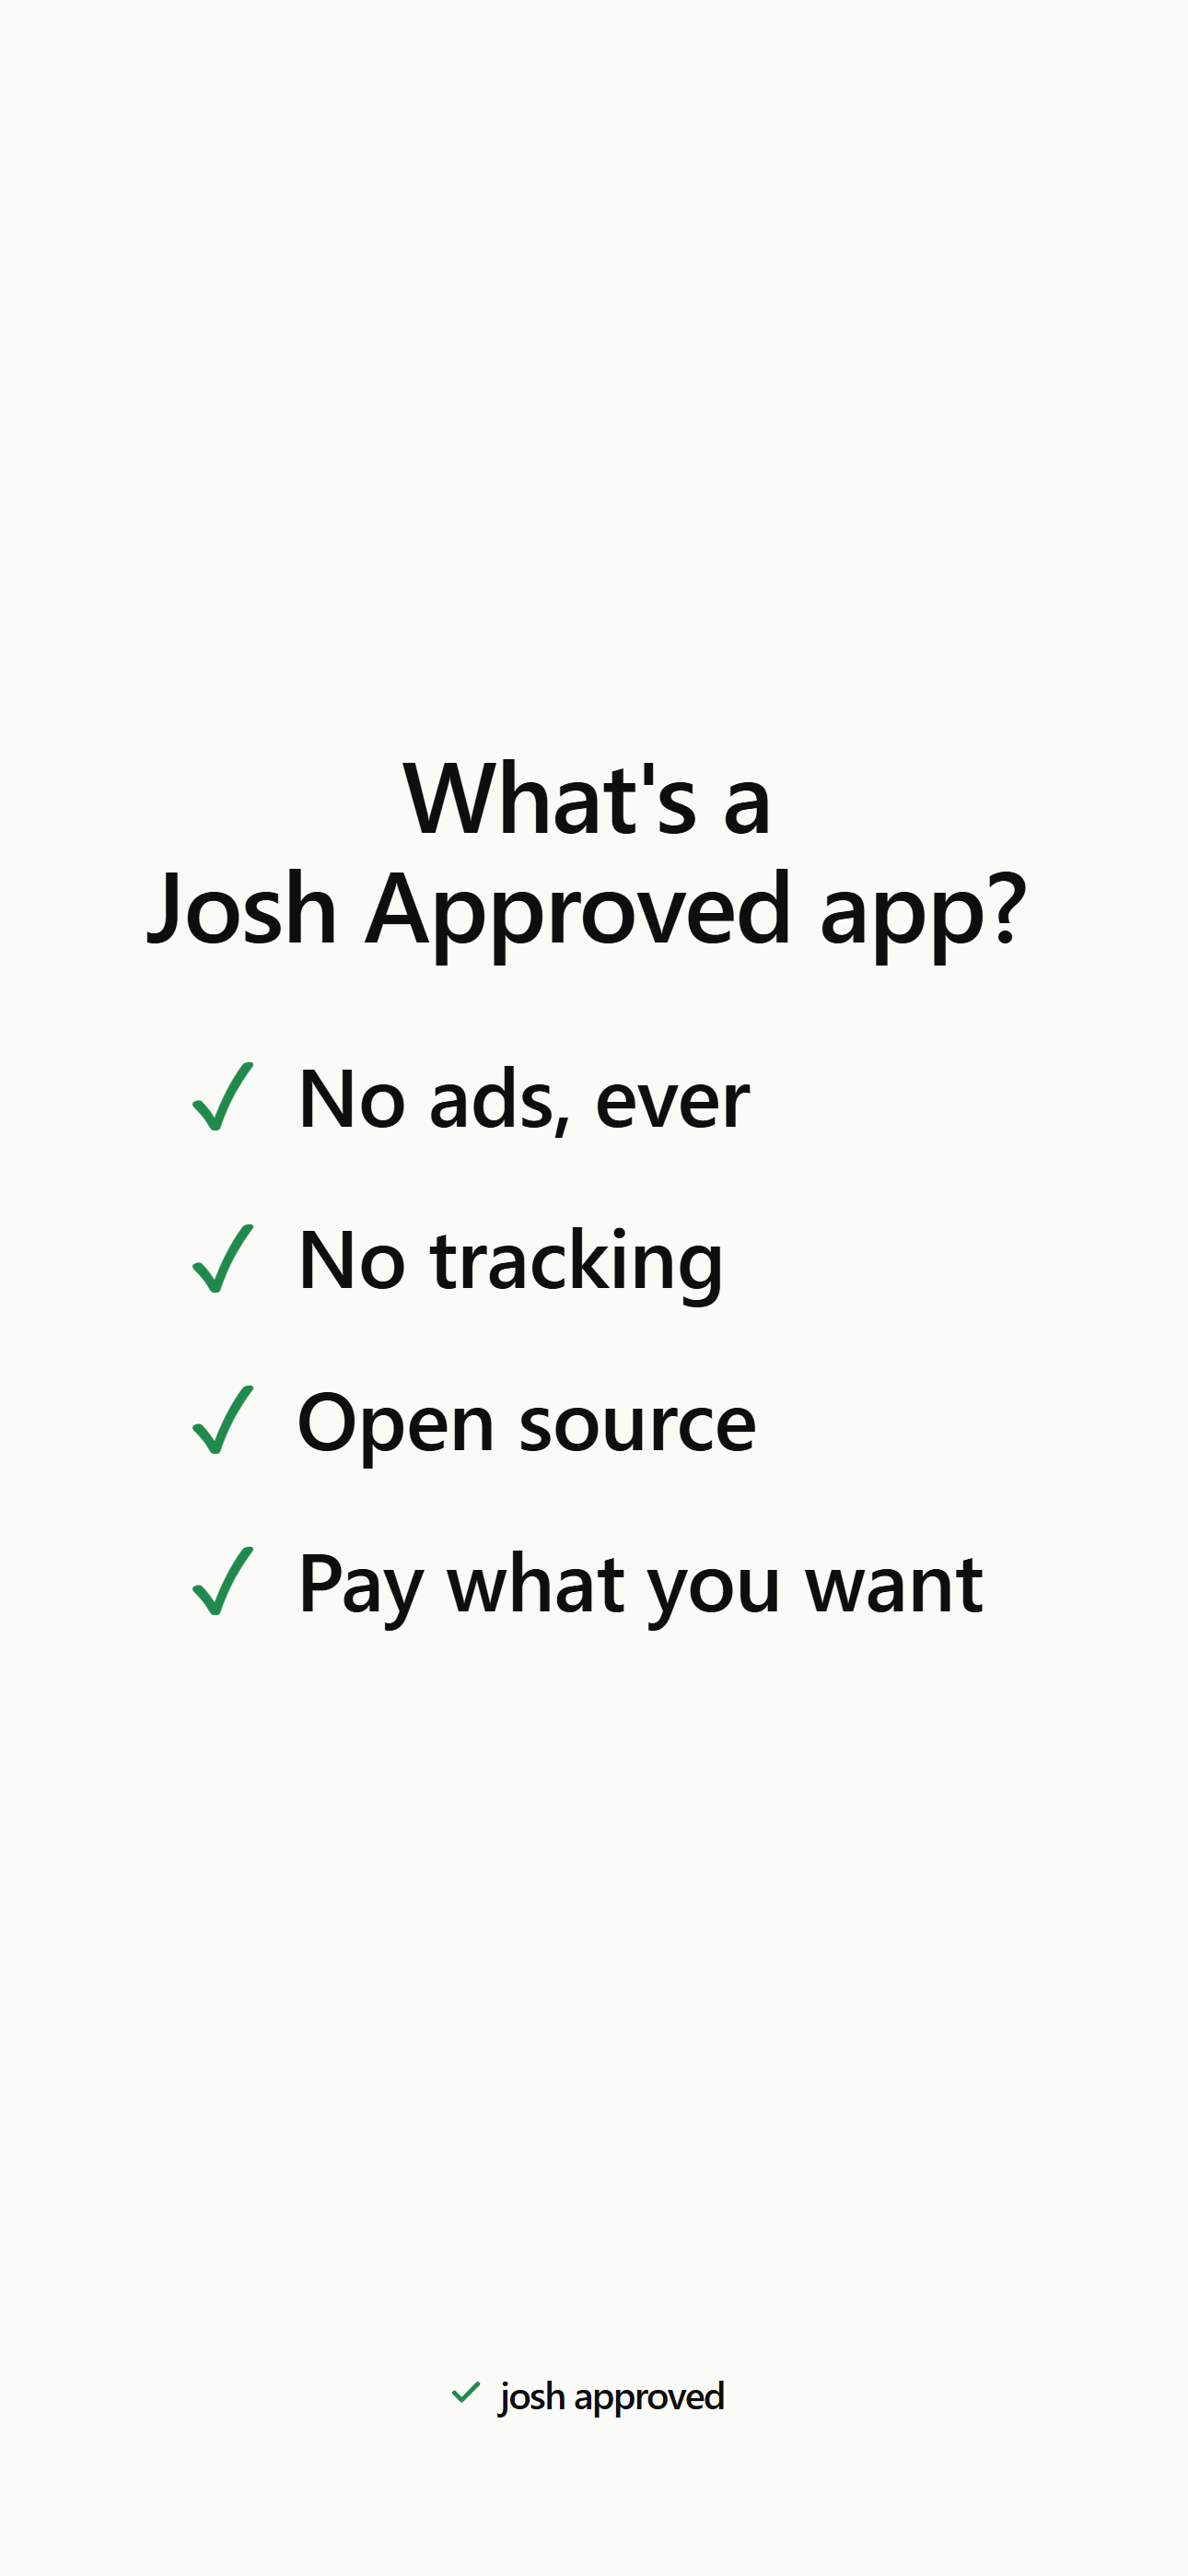
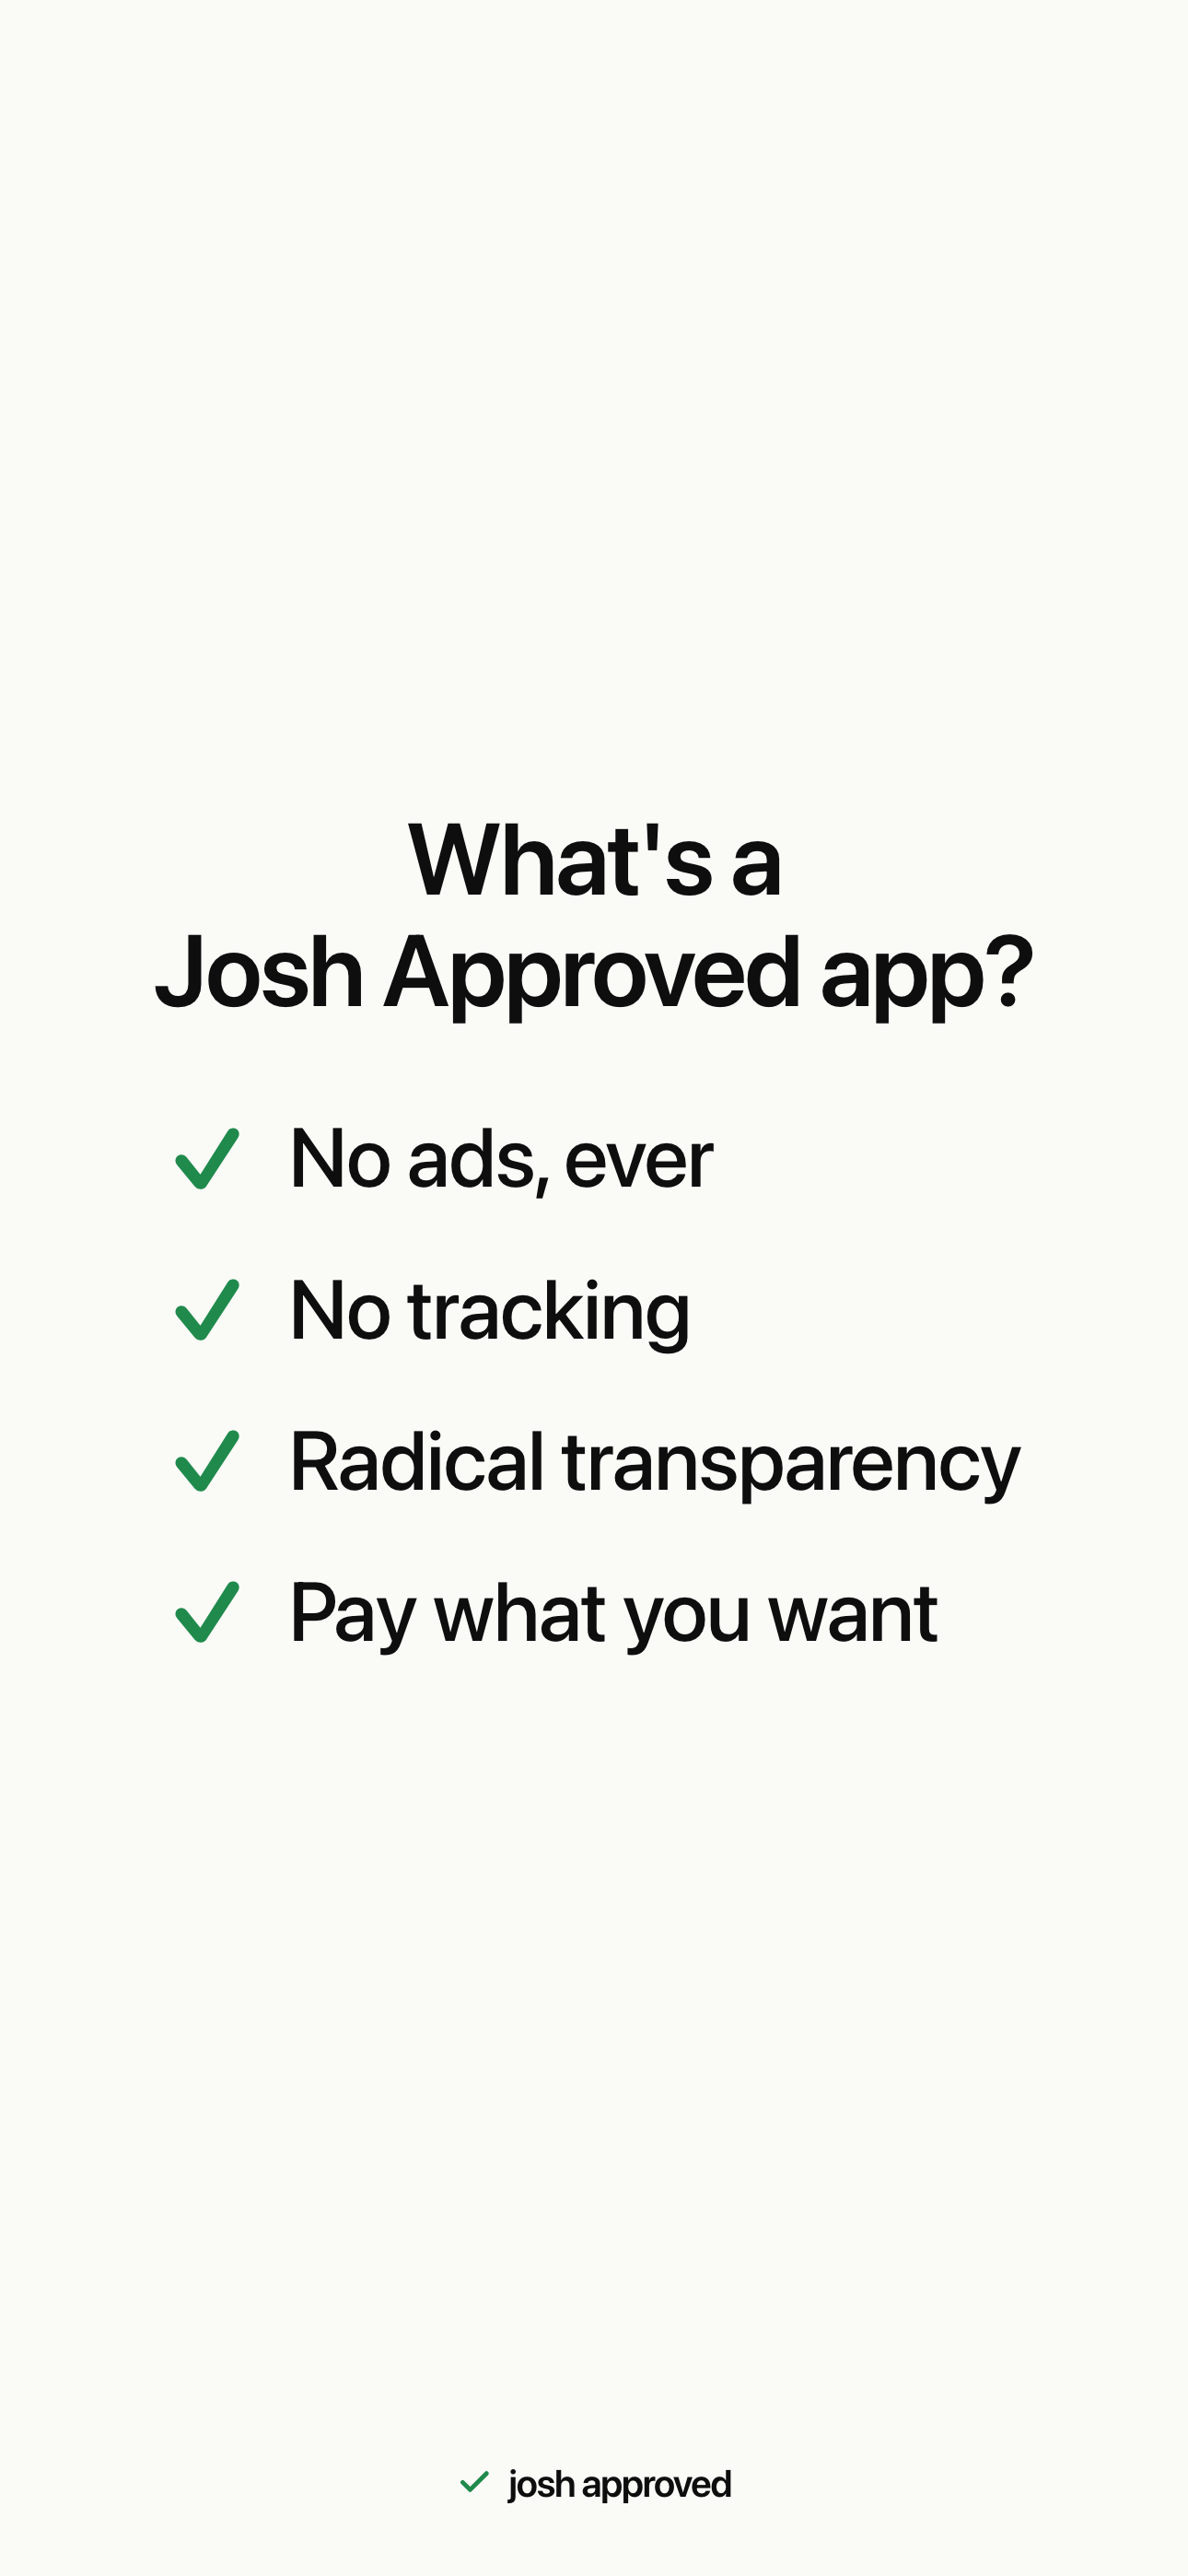
Refresh store assets for 1.1.2 release
Add iOS + Android store screenshots (including the new value editor),
the feature graphic and its config, and QA captures for both platforms.
Align the QA frame copy to the canonical "Radical transparency" phrasing.

diff --git a/qa/frame.html b/qa/frame.html
@@ -273,7 +273,7 @@
           <ul class="josh-card__list">
             <li class="josh-card__item"><span class="josh-card__check">&#10003;</span><span>No ads, ever</span></li>
             <li class="josh-card__item"><span class="josh-card__check">&#10003;</span><span>No tracking</span></li>
-            <li class="josh-card__item"><span class="josh-card__check">&#10003;</span><span>Open source</span></li>
+            <li class="josh-card__item"><span class="josh-card__check">&#10003;</span><span>Radical transparency</span></li>
             <li class="josh-card__item"><span class="josh-card__check">&#10003;</span><span>Pay what you want</span></li>
           </ul>
         </div>